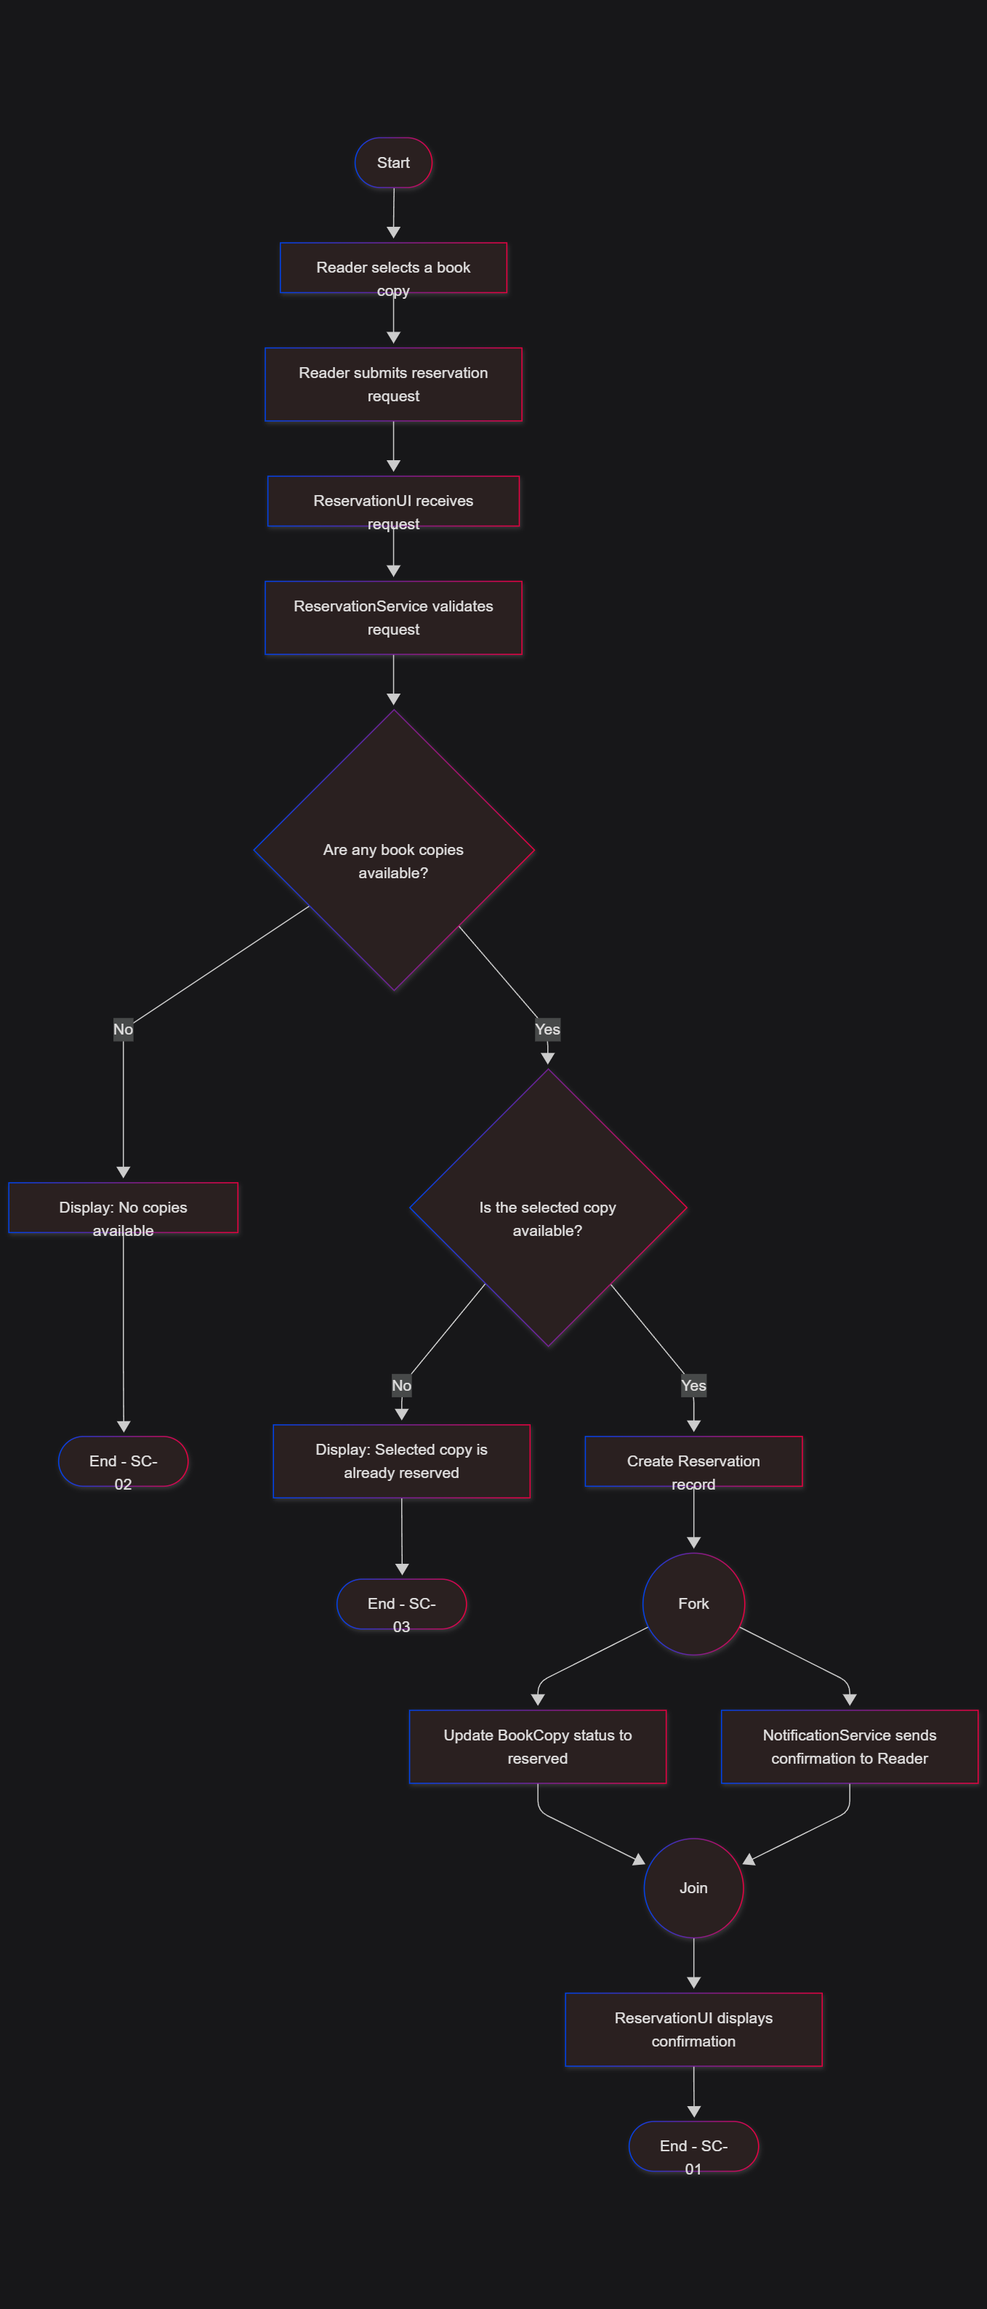
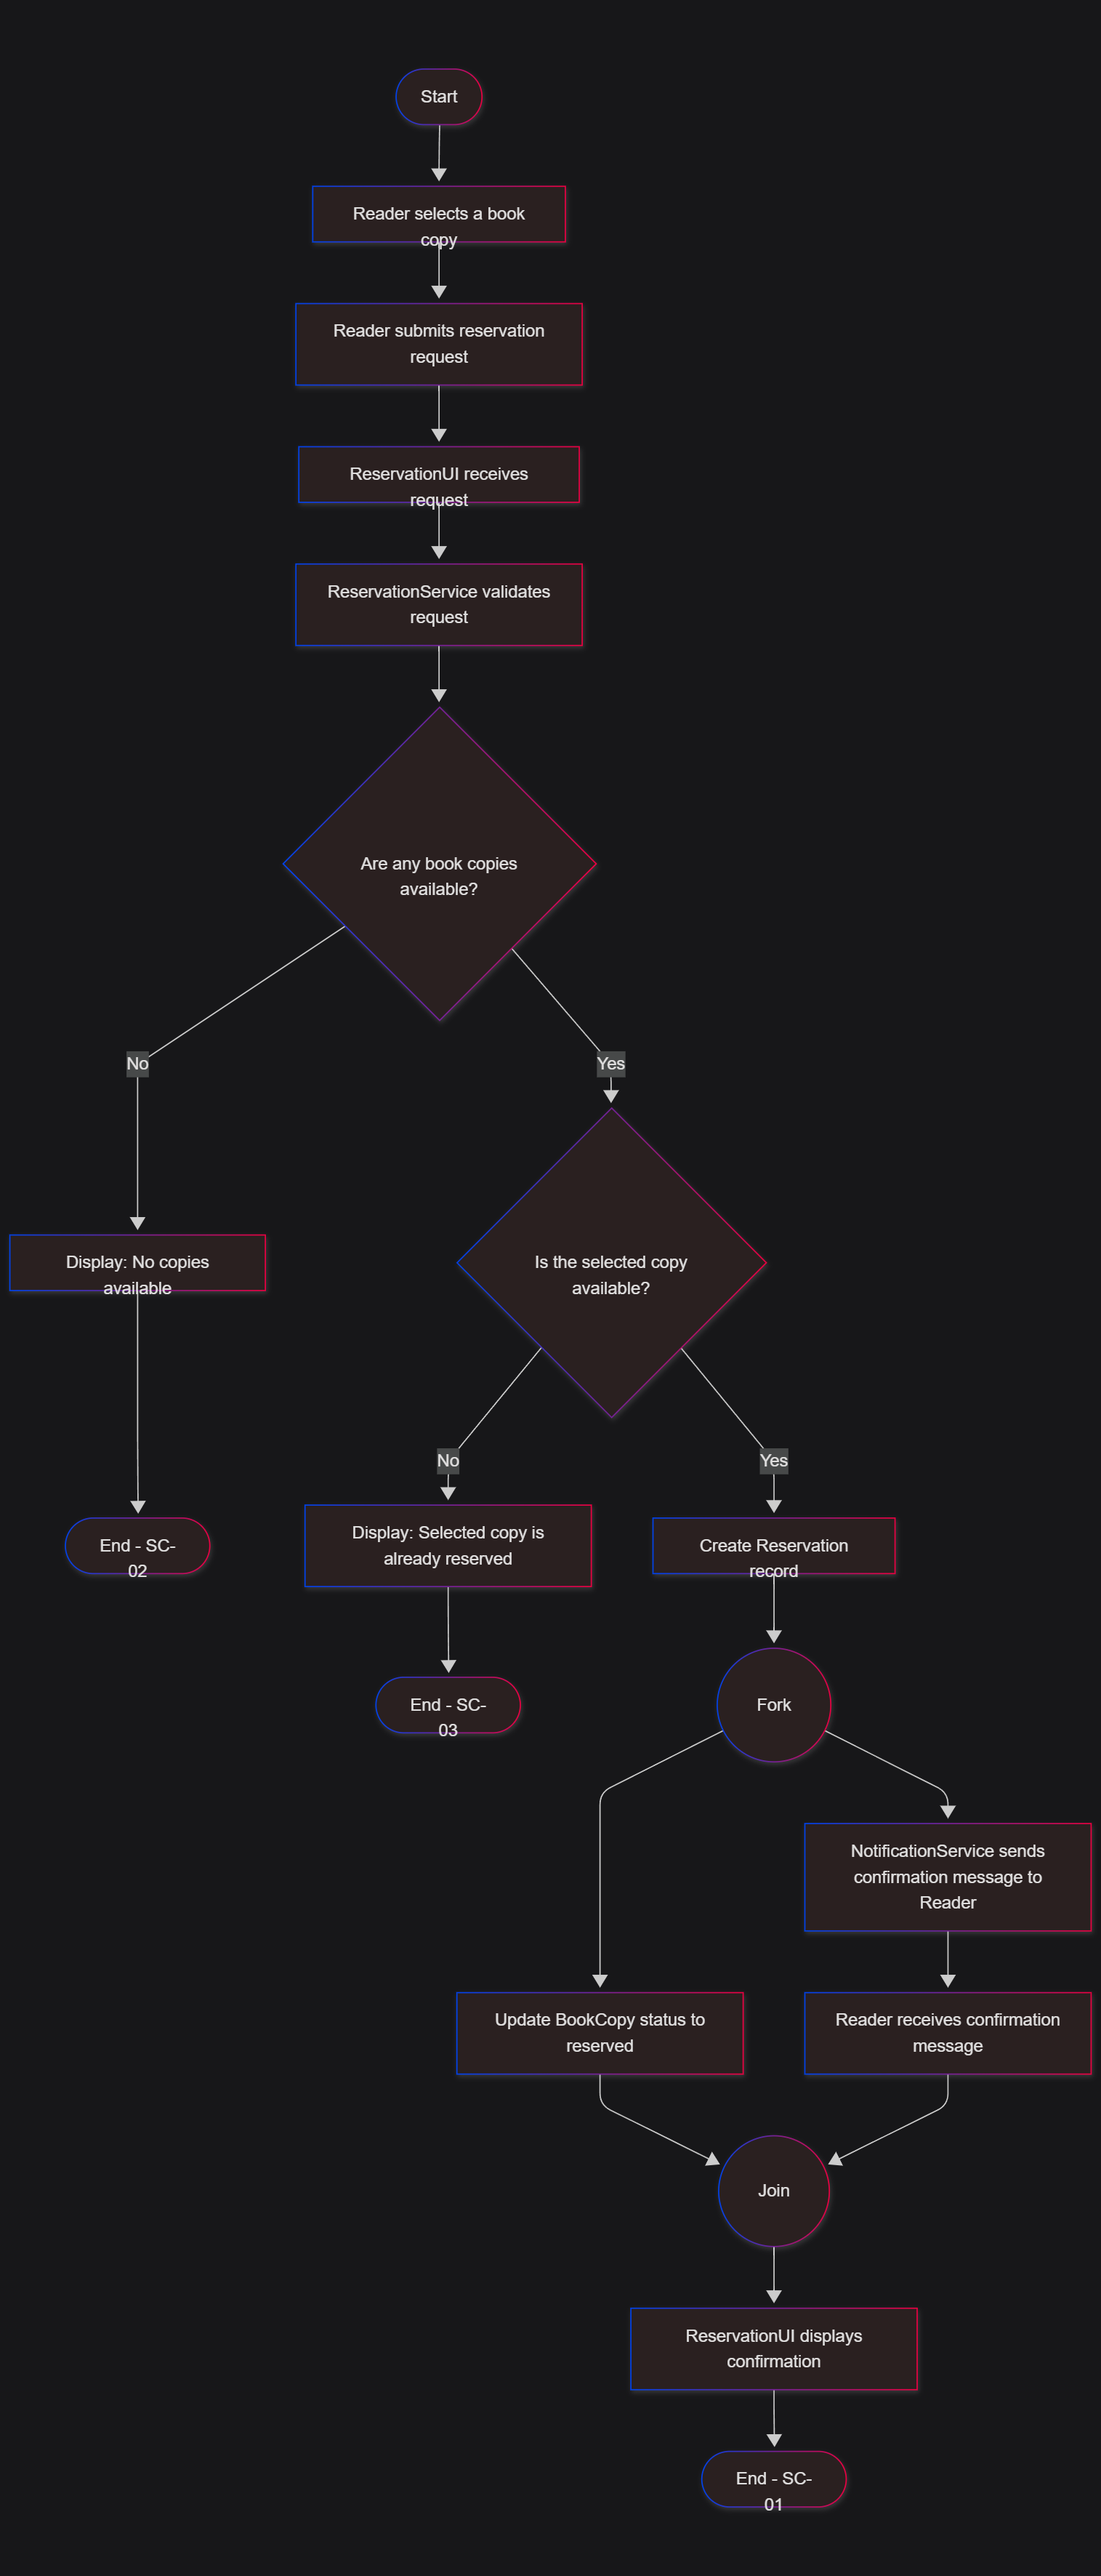
Complete Lab 4 Activity Diagram

diff --git a/ai/ai-work-log.md b/ai/ai-work-log.md
@@ -1,30 +1,59 @@
-# AI Work Log
+# AI Work Log — Library Activity Diagram
 
 ## 1. Purpose of AI Usage
 
-AI was used as a supporting tool during the development of the Activity Diagram.
+AI was used as a supporting tool to analyze the business process, identify possible gaps in the Activity Diagram, and review consistency between the specification, diagram, and audit.
 
-## 2. AI Assistance
+AI was not treated as the source of project requirements. Final decisions were made by the student.
 
-AI provided assistance with:
-- Explaining the laboratory requirements.
-- Clarifying the business process and its possible scenarios.
-- Discussing different ways to represent branching and parallel activities.
-- Reviewing the diagram logic and identifying possible mistakes.
-- Checking consistency with the previous laboratory assignments.
-- Providing recommendations for improving the documentation.
+## 2. AI Interaction Records
 
-## 3. Student's Work and Decisions
+### Interaction 1: Activity Diagram Review
 
-The student independently worked on the assignment, reviewed the suggestions, and made the final decisions regarding:
-- The selected modeling notation.
-- The process participants and scenarios.
-- The structure of the Activity Diagram.
-- The representation of parallel activities and message communication.
-- The final content of the project documentation.
+**Task given to AI (summary):** Review the Activity Diagram for the book reservation process and check whether it includes the required branching, parallel activities, and message communication.
+
+**AI response (summary):** AI reviewed the three reservation scenarios and identified that the notification message should explicitly show that the Reader receives it.
+
+**Student's evaluation:** The recommendation was accepted. An additional activity representing receipt of the confirmation message was added.
+
+### Interaction 2: Specification Consistency
+
+**Task given to AI (summary):** Check whether the specification describes the same activities and message communication as the Activity Diagram.
+
+**AI response (summary):** AI identified that the specification did not explicitly describe the Reader receiving the notification.
+
+**Student's evaluation:** The recommendation was accepted. Sections 5 and 7 of the specification were updated to clarify message communication and the selected modeling notation.
+
+### Interaction 3: Audit Review
+
+**Task given to AI (summary):** Review the Activity Diagram audit and check whether the message communication description matches the diagram.
+
+**AI response (summary):** AI identified that the audit described the notification branch as ending immediately after sending the message.
+
+**Student's evaluation:** The recommendation was accepted. The audit was updated to include message receipt and continuation to the synchronization point.
+
+### Interaction 4: DEFENSE Review
+
+**Task given to AI (summary):** Review DEFENSE.md for consistency with the Activity Diagram and the laboratory requirements.
+
+**AI response (summary):** AI recommended explicitly mentioning that the Reader receives the confirmation notification and correcting a typographical error.
+
+**Student's evaluation:** Both corrections were accepted and applied.
+
+## 3. Student's Final Decisions
+
+The student reviewed the AI recommendations and made the following decisions:
+
+- Kept the UML Activity Diagram with Mermaid flowchart syntax.
+- Preserved the three reservation scenarios: SC-01, SC-02, and SC-03.
+- Kept the parallel execution of the BookCopy status update and notification delivery.
+- Added an explicit activity showing that the Reader receives the confirmation message.
+- Updated the specification, audit, and DEFENSE.md to maintain consistency.
 
 ## 4. Responsibility
 
-AI was used as a supporting assistant for explanations, recommendations, and reviewing the work.
+AI was used for analysis, feedback, and documentation review.
 
-All final decisions were made by the student, who is responsible for the completed project and its submitted artifacts.
+The student evaluated the recommendations, decided which changes to apply, and remains responsible for the final project artifacts.
+
+*Note: The interaction records above are summaries of the work process, not verbatim transcripts of the prompts and responses.*

diff --git a/spec.md b/spec.md
@@ -52,10 +52,13 @@ The process covers the submission and validation of a reservation request, reser
 
 ## 5. Message Communication
 
-- **Sender:** NotificationService.
-- **Receiver:** Reader.
-- **Message:** Reservation confirmation.
-- **Process behavior:** The notification is sent without waiting for the Reader's response. The process continues and completes after the parallel activities join.
+- Sender: NotificationService.
+- Receiver: Reader.
+- Message: Reservation confirmation.
+- After sending the message, Reader receives the confirmation notification.
+- The process does not wait for an additional response from the Reader.
+- The notification activity and the BookCopy status update execute in parallel.
+- The process continues to the synchronization point after both activities are completed.
 
 ## 6. Parallel Activities
 
@@ -67,6 +70,8 @@ A synchronization point joins both branches before the process ends.
 
 ## 7. Selected Modeling Form
 
-**UML Activity Diagram using Mermaid flowchart syntax.**
+UML Activity Diagram using Mermaid flowchart syntax.
 
-This form was selected because it clearly represents business process activities,
+This form was selected because it clearly represents business process activities, control flows, conditional branching, and parallel execution. It also allows the communication between NotificationService and Reader to be shown.
+
+The Activity Diagram was chosen because the process contains several decision points and parallel activities that need to be represented in one consistent notation.

diff --git a/DEFENSE.md b/DEFENSE.md
@@ -41,9 +41,11 @@ After a successful reservation is created, two activities are performed in paral
 1. Updating the BookCopy status to `reserved`.
 2. Sending a confirmation notification to the Reader.
 
+The NotificationService sends the confirmation message, and the Reader receives it.
+
 Both activities must be completed before the process continues through the Join node.
 
-The NotificationService sends the confirmation message to the Reader. The system does not wait for the Reader to read or respond to the notification.
+The system does not wait for the Reader to read or respond to the notification.
 
 ## 4. Audit and Discrepancies
 
@@ -75,4 +77,4 @@ The project provides an Activity Diagram for the Library Reservation System.
 
 The diagram describes the reservation process, its alternative scenarios, parallel activities, synchronization, and notification communication.
 
-The model is basedon UC-01 from Lab 2 and extends the process description from Lab 3 with additional activity-level details.
+The model is based on UC-01 from Lab 2 and extends the process description from Lab 3 with additional activity-level details.

diff --git a/audit/activity-audit.md b/audit/activity-audit.md
@@ -34,9 +34,10 @@ The process does not wait for the Reader to read or respond to the notification.
 - Sender: NotificationService.
 - Receiver: Reader.
 - Message: Reservation confirmation.
-- Expected behavior: the notification is sent without waiting for a response.
-
-The notification branch is completed when the message is sent.
+- After sending the message, Reader receives the confirmation notification.
+- The notification branch continues after the message is received.
+- The process does not wait for an additional response from the Reader.
+- The notification branch joins with the BookCopy status update branch before the process continues.
 
 ## 5. Top 3 Discrepancies and Resolutions
 
